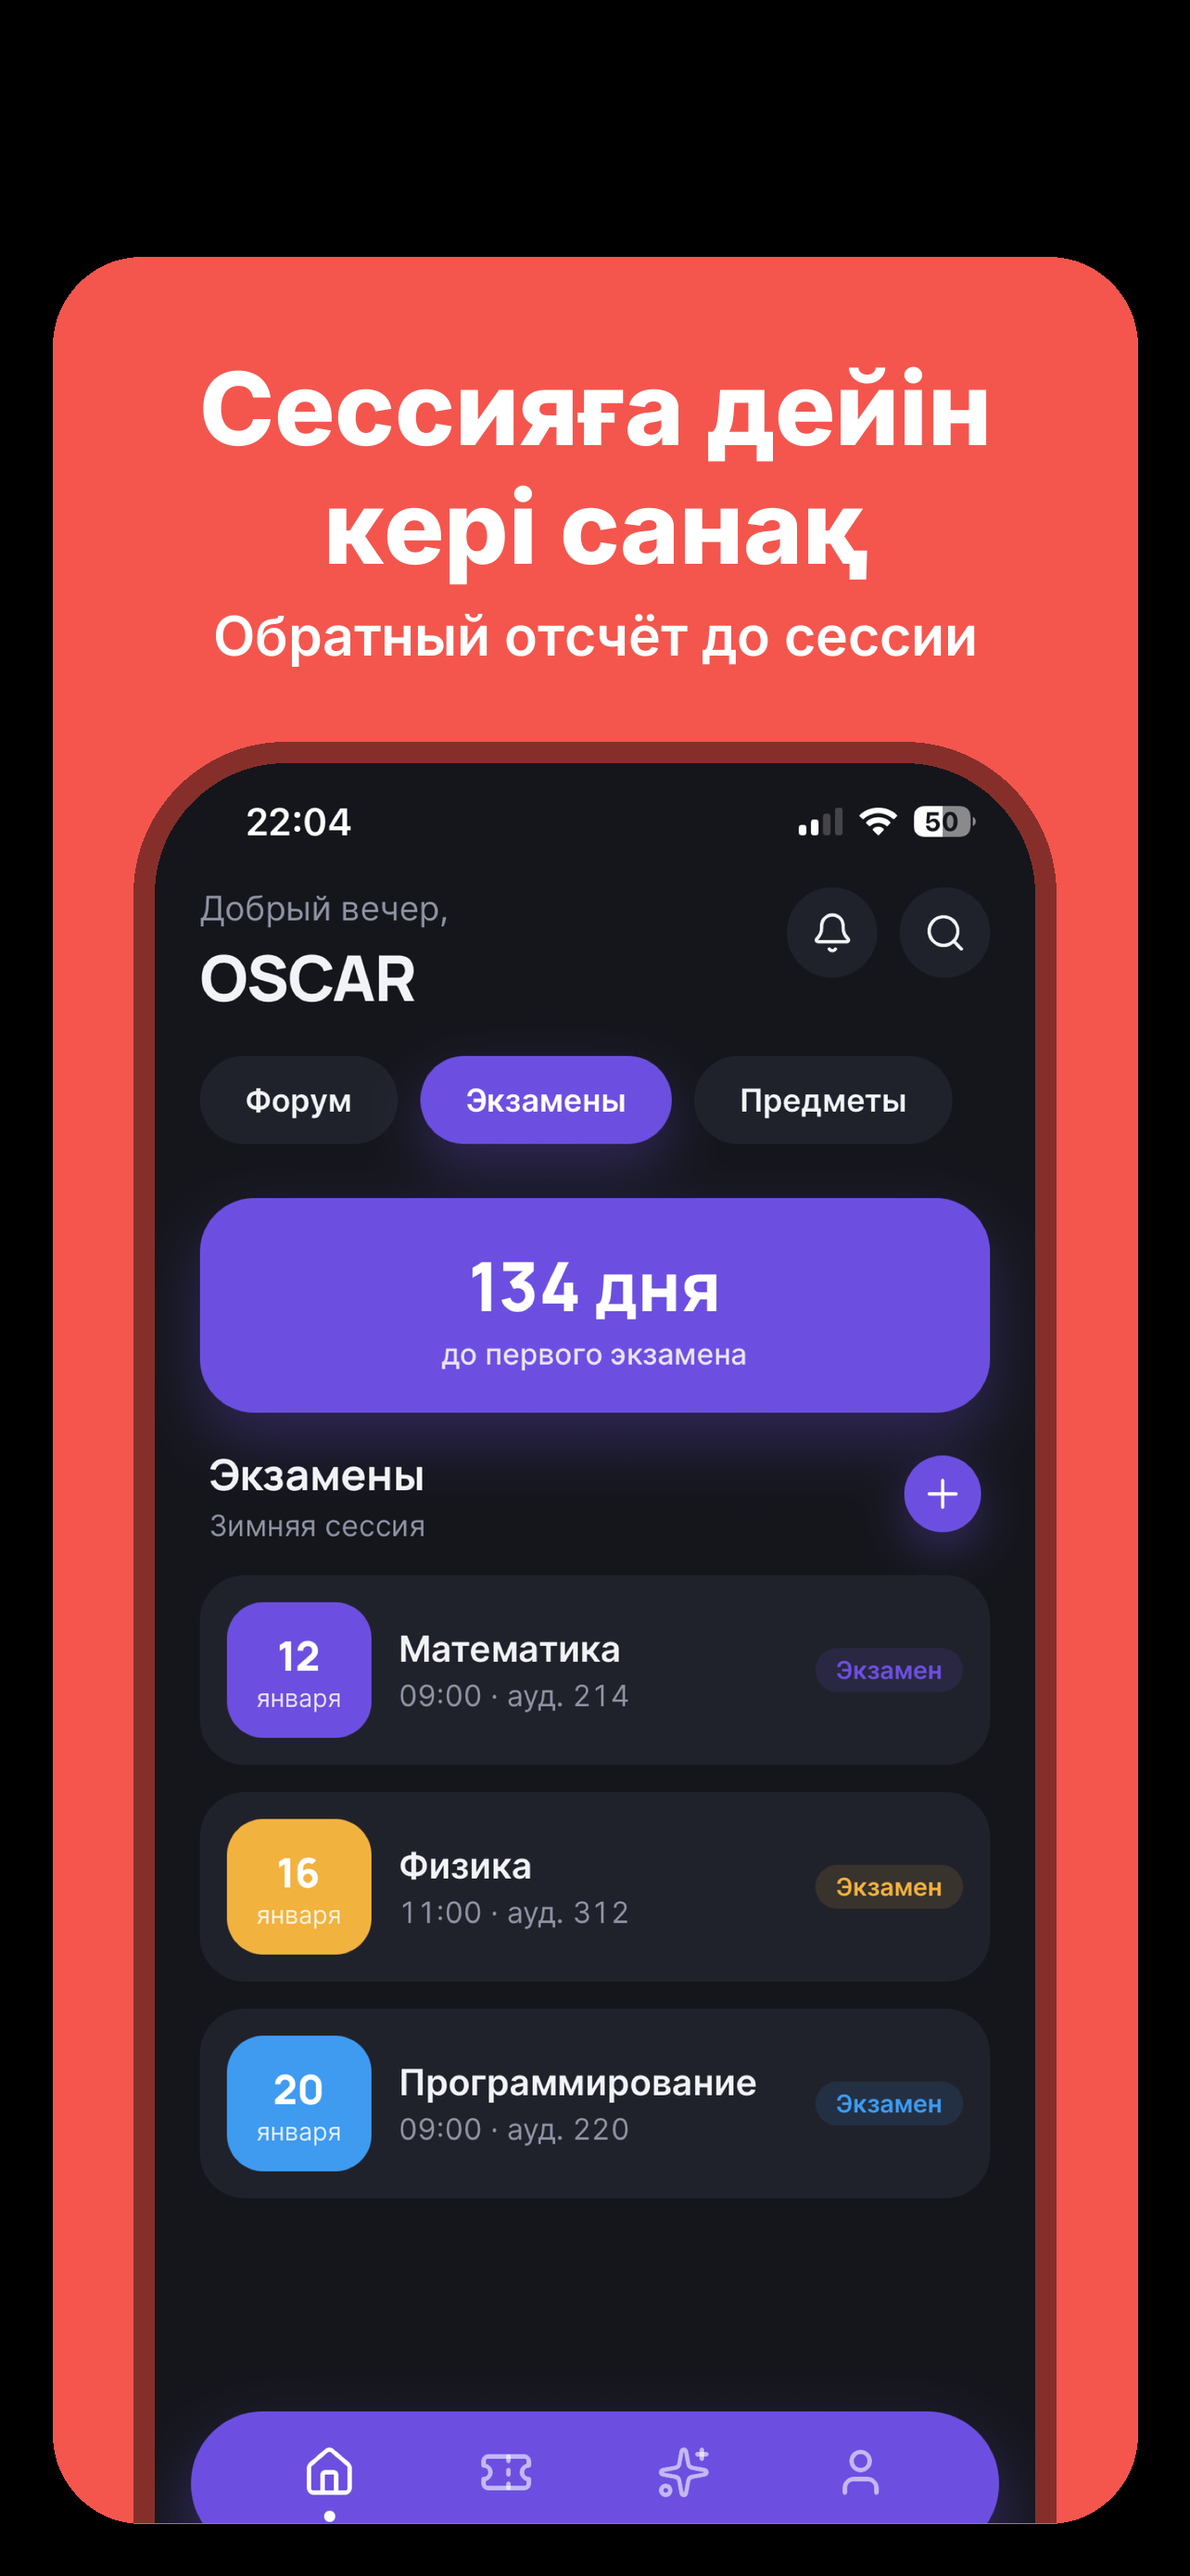
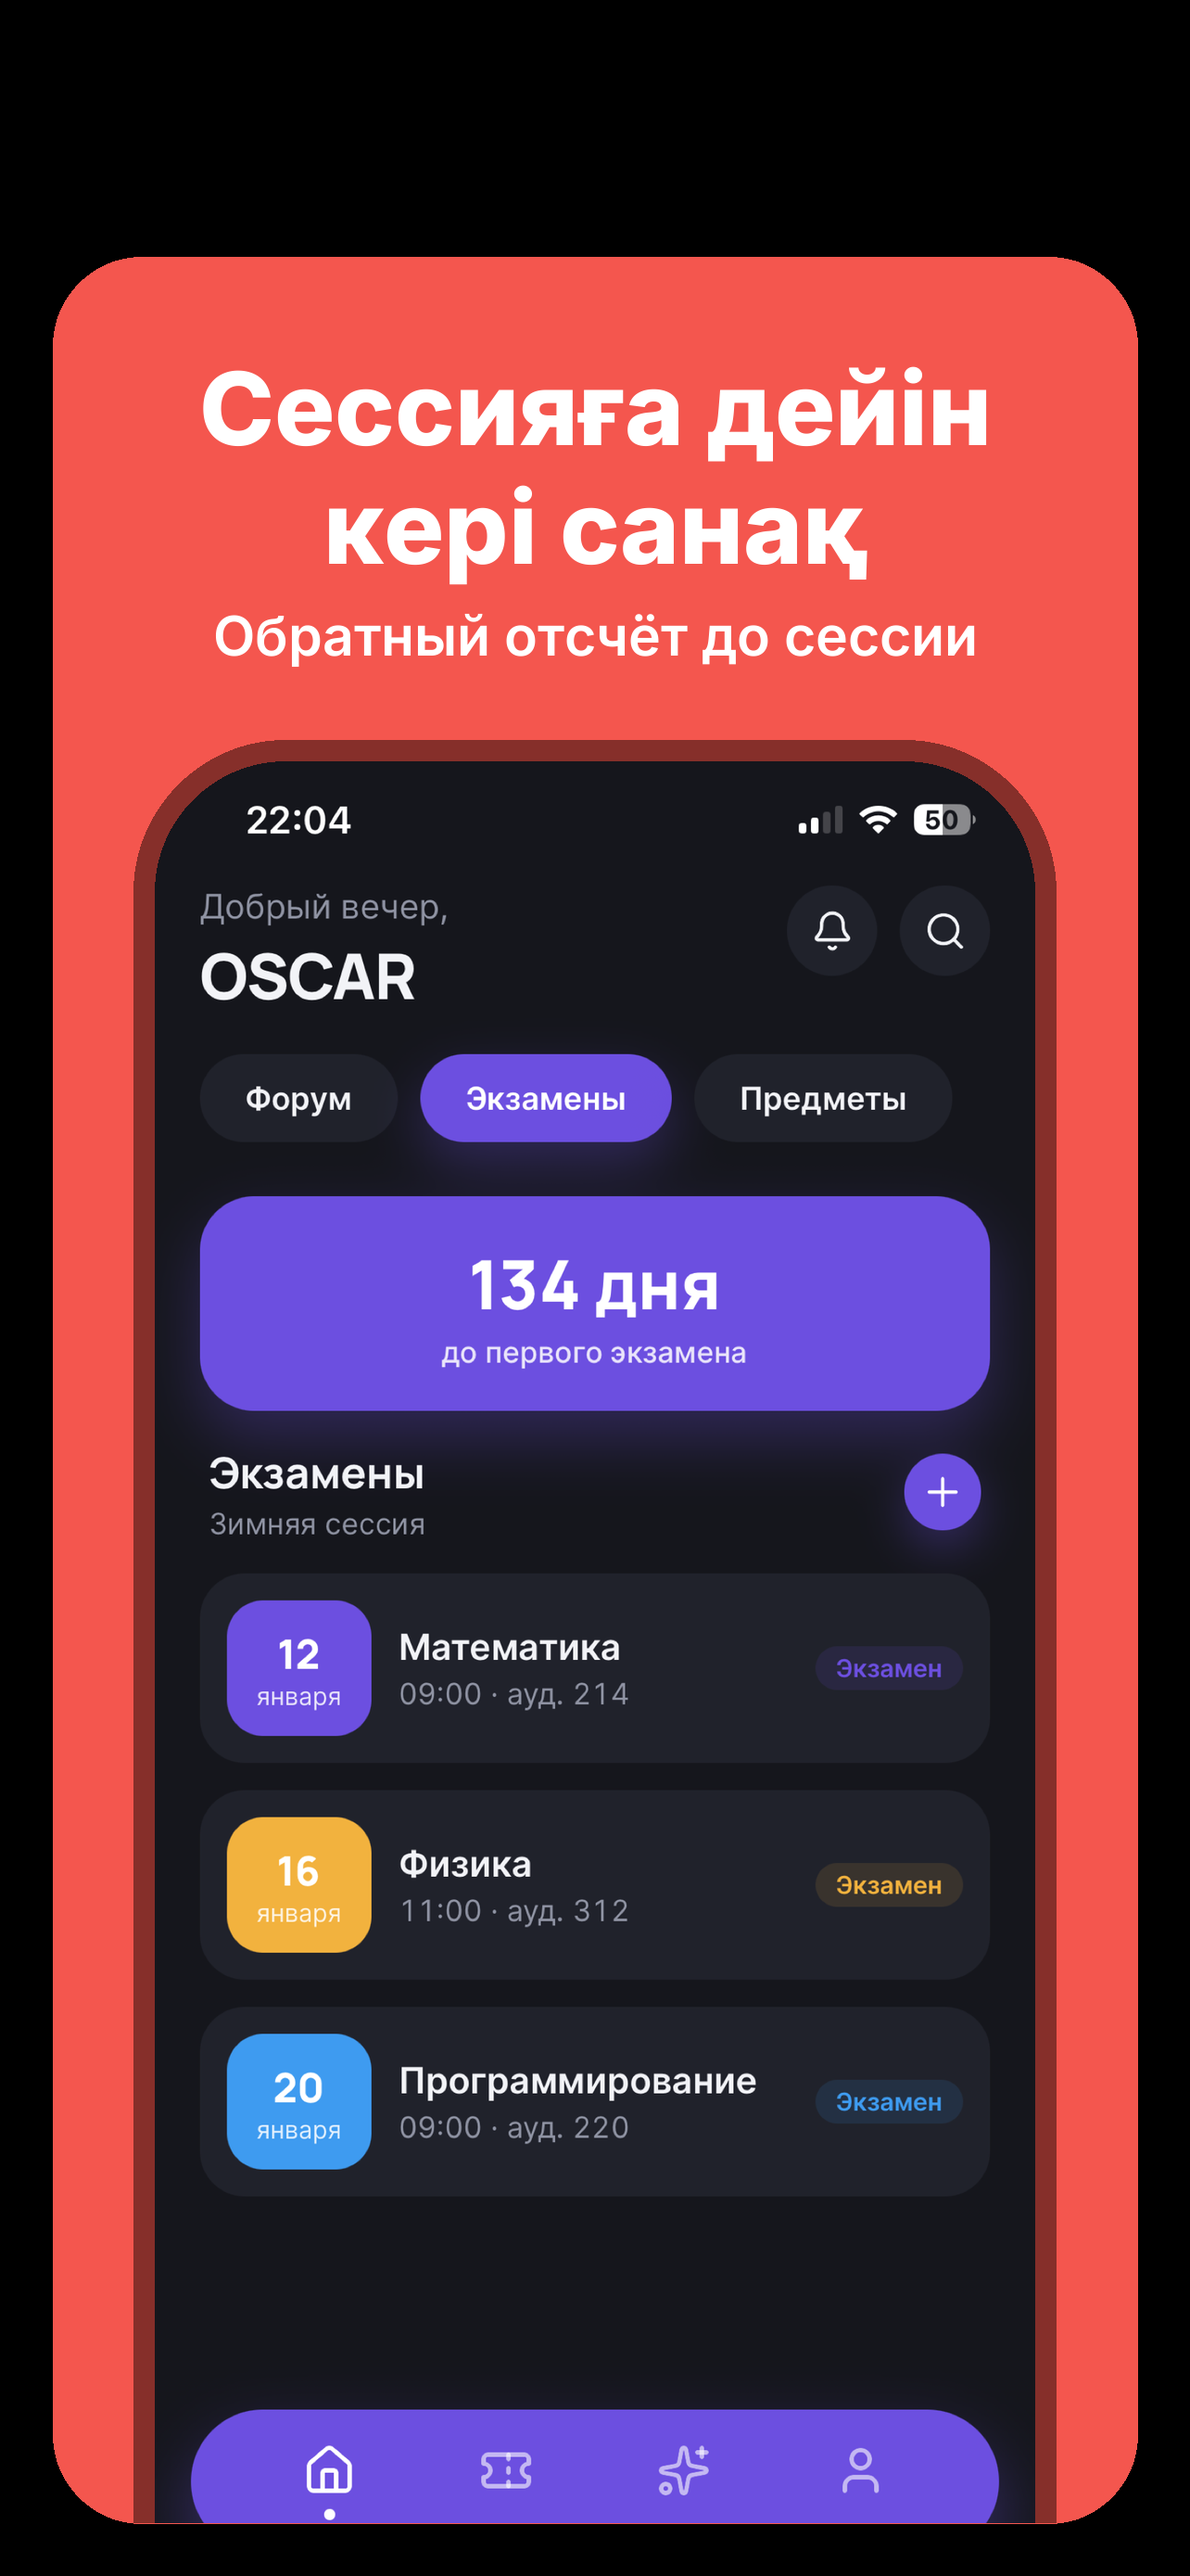
Скриншоты: заголовок ужимается, чтобы не упираться в края карточки
«Университет оқиғалары бір жерде» вылезал за карточку. Теперь размер
шрифта подбирается автоматически под ширину с отступами, и для
казахского заголовка, и для русской подписи.

diff --git a/store/make-screenshots.py b/store/make-screenshots.py
@@ -27,12 +27,21 @@ def build(name, color, kk, ru, W, H):
     m = int(W*0.045)
     top = int(H*0.10)
     d.rounded_rectangle([m, top, W-m, H-m], radius=int(W*0.075), fill=color)
-    fkk = ImageFont.truetype(FONT, int(W*0.085)); fru = ImageFont.truetype(FONT2, int(W*0.046))
+    # Текст не должен упираться в края карточки: ужимаем шрифт, пока самая
+    # длинная строка не влезет в ширину карточки минус отступы.
+    limit = W - 2*m - 2*int(W*0.06)
+    def fit(path, size, lines):
+        f = ImageFont.truetype(path, size)
+        while size > 20 and max(d.textlength(l, font=f) for l in lines) > limit:
+            size -= 2; f = ImageFont.truetype(path, size)
+        return f, size
+    fkk, skk = fit(FONT, int(W*0.085), kk.split('\n'))
+    fru, sru = fit(FONT2, int(W*0.046), [ru])
     y = top + int(H*0.035)
     for line in kk.split('\n'):
-        w = d.textlength(line, font=fkk); d.text(((W-w)/2, y), line, font=fkk, fill='white'); y += int(W*0.10)
+        w = d.textlength(line, font=fkk); d.text(((W-w)/2, y), line, font=fkk, fill='white'); y += int(skk*1.18)
     y += int(W*0.015)
-    w = d.textlength(ru, font=fru); d.text(((W-w)/2, y), ru, font=fru, fill=(255,255,255,235)); y += int(W*0.075)
+    w = d.textlength(ru, font=fru); d.text(((W-w)/2, y), ru, font=fru, fill=(255,255,255,235)); y += int(sru*1.6)
     # телефон
     shot = Image.open(f'{SRC}/{name}.png').convert('RGB')
     pw = int(W*0.74); ph = int(pw*shot.height/shot.width)
